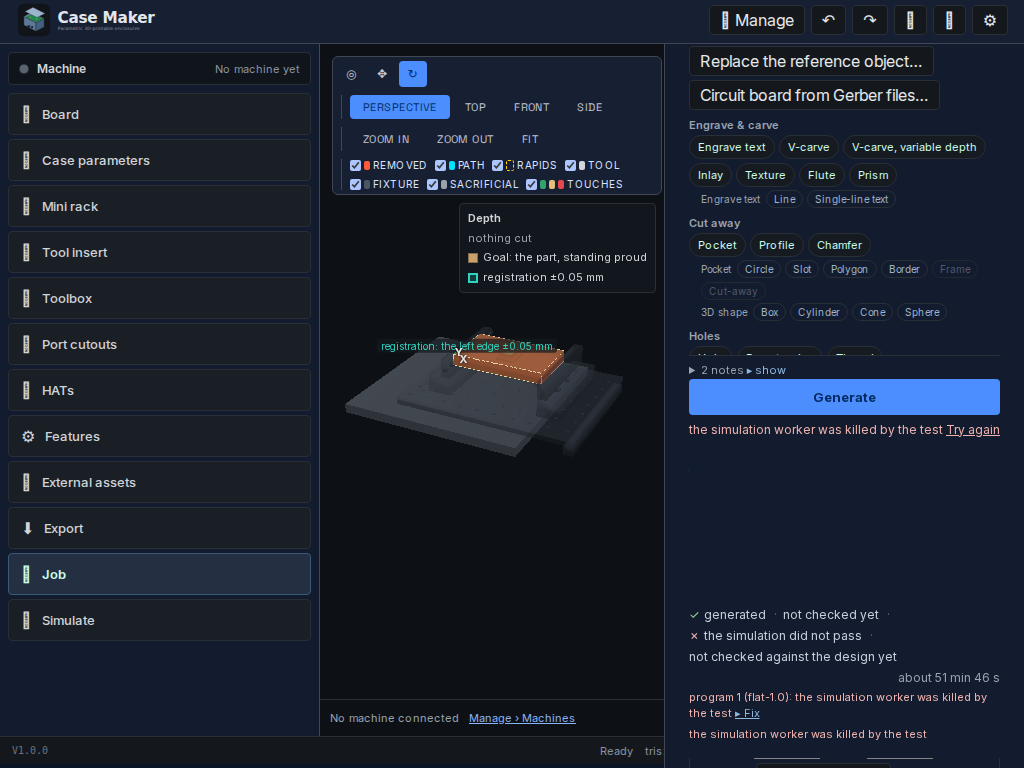
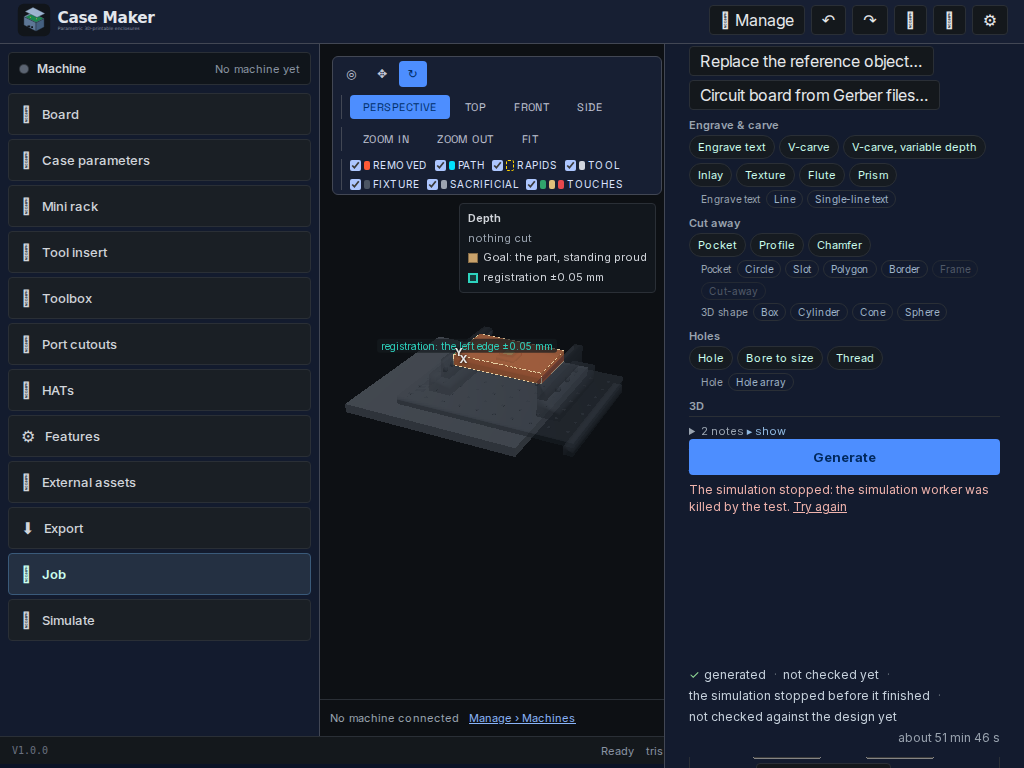
fix(run): a stopped simulation is a stop, said once beside Generate (#830 review)
Three fixes on the stopped-worker showing the manager reviewed:

1. THE SWEEP STOPPING IS NOT A FAILED CHECK. A worker that died mid-sweep was turned into a
   `sim-error` diagnostic against the program that happened to be loading, so the checklist read
   "the simulation did not pass" for a program that was never judged. The sweep adapter now
   raises `SimulationStopped` instead: no diagnostic, no error count, no Fix. The run records
   `simStopped`, and the checklist's simulation row reads "the simulation stopped before it
   finished" with no cross.

2. THE SENTENCE IS SAID ONCE. It appeared under Generate, again as the program 1 finding, and a
   third time at the foot. The run's own `error` now has exactly one home, beside Generate with
   Try again, and the foot's duplicate (`engrave-run-error`) is gone. A stopped simulation's
   words are framed as the stop they are: "The simulation stopped: <the worker's sentence>."
   A generator failure keeps its own sentence without that frame, and the stall watchdog says
   which of the two went quiet.

3. NO "▸ FIX" PRESS ON A STOP (#832 is removing bare Fix presses). The press is Try again; the
   program finding that carried the Fix no longer exists.

Tests: the store's stop leaves `simStopped` set, no diagnostics, no verdict; the panel shows the
framed sentence once with the neutral checklist row and neither the finding row nor a Fix; the
[…]

Changed region(s): [[0.6562, 0.4375, 1.0, 0.6875], [0.6562, 0.7812, 0.9688, 0.9688], [0.5938, 0.9688, 0.6562, 1.0]]

diff --git a/casemaker-app/src/store/engraveRunStore.ts b/casemaker-app/src/store/engraveRunStore.ts
@@ -286,6 +286,14 @@ export interface EngraveRunState {
    * own stage, so the panel never shows a bare "Working…" through a multi-program sweep.
    */
   simProgram: { index: number; count: number } | null;
+  /**
+   * #830 review — the run stopped because the SIMULATION PROCESS itself ended (its worker died or
+   * went silent), so no program was ever judged. This is a STOP, not a failed simulation: the
+   * panel states it once beside Generate, and the checklist's simulation row reads "stopped before
+   * it finished" rather than a cross. False for a sweep that ran and found errors, and for every
+   * failure of the other stages.
+   */
+  simStopped: boolean;
   /** Run the whole pipeline for the job as it is NOW. `surface` (#608) re-posts against a tilt. */
   generate: (surface?: SurfacePostFit | null) => Promise<void>;
   /**
@@ -306,6 +314,15 @@ export interface EngraveRunState {
   /** Forget the run (and the staleness). Does not touch the job. */
   reset: () => void;
 }
+
+/**
+ * #830 review — THE SWEEP STOPPED WITHOUT A VERDICT. Raised by the sweep adapter when the
+ * simulation could not finish (the worker stopped, or a call was cut off): there is no result to
+ * attribute to the program that happened to be loaded, so the failure leaves the sweep as a STOP.
+ * The run blocks with the worker's own words, and no error finding is invented for a program that
+ * was never judged — so the run's error count carries no sentence about work that never happened.
+ */
+class SimulationStopped extends Error {}
 
 let seq = 0;
 /** #785 — the loaded client (so Cancel can terminate the worker without a second import). */
@@ -334,6 +351,7 @@ export const useEngraveRunStore = create<EngraveRunState>()((set, get) => {
     error: null as string | null,
     progress: null as EngraveProgress | null,
     simProgram: null as { index: number; count: number } | null,
+    simStopped: false,
   };
 
   async function run(surface: SurfacePostFit | null = null): Promise<void> {
@@ -506,6 +524,11 @@ export const useEngraveRunStore = create<EngraveRunState>()((set, get) => {
       stallTimer = setTimeout(() => {
         if (mine !== seq) return;
         const seconds = Math.round(stallMs / 1000);
+        // #830 review — WHAT went quiet decides what the panel says. A silence while the SWEEP
+        // runs is a stopped simulation (no verdict for any program); a silence while the CAM
+        // generates is the generator stopping, and is said without that frame.
+        const during = get().phase;
+        const inSimulation = during === 'simulating' || during === 'checking';
         recordCrumb({
           kind: 'error',
           data: { source: 'generate-stall', message: `no stage for ${seconds} s (last: ${lastStage ?? 'the press'})` },
@@ -517,7 +540,10 @@ export const useEngraveRunStore = create<EngraveRunState>()((set, get) => {
           ...empty,
           generated: get().generated,
           phase: 'blocked',
-          error: `The generator stopped reporting for ${seconds} s. Its worker may have stopped; try again.`,
+          simStopped: inSimulation,
+          error: inSimulation
+            ? `its worker stopped answering after ${seconds} s`
+            : `The generator stopped reporting for ${seconds} s. Its worker may have stopped.`,
         });
       }, stallMs);
     };
@@ -742,34 +768,17 @@ export const useEngraveRunStore = create<EngraveRunState>()((set, get) => {
               return result;
             }
             const sim = useSimStore.getState();
-            // null means this load no longer owns the session: a newer run/panel load stopped it
-            // (the walk stops quietly), or the worker failed (block, naming this program).
+            // null means this load no longer owns the session (a newer run/panel load stopped it),
+            // and the walk stops quietly. A WORKER that failed is different: the sweep cannot go
+            // on, and nothing about this program was judged — so it leaves as a STOP carrying the
+            // worker's own words, never as a finding against the program that happened to be
+            // loading. #830 review: a stopped simulation is not a failed one.
             if (sim.status !== 'error') return null;
-            return {
-              ok: false as const,
-              pathOnly: false,
-              diagnostics: [
-                {
-                  source: 'sweep' as const,
-                  severity: 'error' as const,
-                  code: 'sim-error',
-                  message: `${programLabel(generated.programs, index)}: ${sim.error ?? 'the simulation failed'}`,
-                },
-              ],
-            };
+            throw new SimulationStopped(sim.error ?? 'the simulation worker stopped');
           } catch (e) {
-            return {
-              ok: false as const,
-              pathOnly: false,
-              diagnostics: [
-                {
-                  source: 'sweep' as const,
-                  severity: 'error' as const,
-                  code: 'sim-error',
-                  message: `${programLabel(generated.programs, index)}: ${e instanceof Error ? e.message : String(e)}`,
-                },
-              ],
-            };
+            // Every other throw from a load is the same kind of fact — no verdict was reached
+            // (a cut-off call, the time budget) — so it is a stop too, in the worker's words.
+            throw e instanceof SimulationStopped ? e : new SimulationStopped(e instanceof Error ? e.message : String(e));
           }
         },
         afterLoad: async ({ index }) => {
@@ -792,7 +801,17 @@ export const useEngraveRunStore = create<EngraveRunState>()((set, get) => {
         aborted: () => mine !== seq,
       });
     } catch (e) {
-      if (mine === seq) set({ phase: 'blocked', error: e instanceof Error ? e.message : String(e) });
+      // #830 review — a sweep that threw reached NO verdict: the worker stopped, or a call was cut
+      // off. The run blocks with the worker's own words (the panel frames them as the simulation
+      // stopping) and the checklist reads "stopped before it finished", never a failed check. A
+      // throw from anywhere else in the walk is a generation failure and keeps its own sentence.
+      if (mine === seq) {
+        set({
+          phase: 'blocked',
+          error: e instanceof Error ? e.message : String(e),
+          ...(e instanceof SimulationStopped ? { simStopped: true } : {}),
+        });
+      }
       noteWorkEnd('generate', 'failed');
       activeClient = null;
       return;
@@ -825,20 +844,20 @@ export const useEngraveRunStore = create<EngraveRunState>()((set, get) => {
     // count is the RUN's files, not the results: a walk stopped at its first program still names it.
     const simDiagnostics = attributedDiagnostics(summaries, generated.programs.length > 1);
     const firstSwept = summaries.find((s) => s.index === firstEngravingIndex) ?? summaries[0] ?? null;
-    const sim = useSimStore.getState();
 
     if (!outcome.ok) {
       set({
         phase: 'blocked',
         simPrograms: summaries,
         simDiagnostics,
-        // A sweep that RAN with errors is 'ready' — the gate reads the errors. Only a refusal (or a
-        // worker failure) is anything else, exactly as the single-program run has always read it.
-        simStatus: outcome.failed?.kind === 'diagnostics' ? 'ready' : sim.status === 'error' ? 'error' : 'refused',
+        // A sweep that RAN with errors is 'ready' — the gate reads the errors; anything else here
+        // is the simulator's own refusal of a program it was given. A dead worker never reaches
+        // this branch: it stops the walk with `SimulationStopped`, so there is no verdict to
+        // record and the panel states the stop once, beside Generate.
+        simStatus: outcome.failed?.kind === 'diagnostics' ? 'ready' : 'refused',
         pathOnly: outcome.failed?.pathOnly ?? false,
         simEngine: firstSwept?.engine ?? null,
         simGridPitchMm: firstSwept?.gridPitchMm ?? null,
-        error: sim.status === 'error' ? sim.error : null,
       });
       noteWorkEnd('generate', 'refused');
       activeClient = null;
@@ -903,6 +922,7 @@ export const useEngraveRunStore = create<EngraveRunState>()((set, get) => {
     error: null,
     progress: null,
     simProgram: null,
+    simStopped: false,
     generate: run,
     cancelGenerate: () => {
       const phase = get().phase;

diff --git a/casemaker-app/src/components/panels/EngravePanel.tsx b/casemaker-app/src/components/panels/EngravePanel.tsx
@@ -745,6 +745,15 @@ function runProgressWords(
   return run.progress === null ? 'Working…' : `${run.progress.label}…`;
 }
 
+/**
+ * #830 review — the ONE sentence a stopped simulation gets, with the worker's own words inside it
+ * ("The simulation stopped: the simulation worker was killed by the test."). Said once, beside
+ * Generate with Try again; the run's other surfaces stay quiet or say "not simulated".
+ */
+function simulationStoppedWords(error: string): string {
+  return `The simulation stopped: ${error.replace(/\.+$/, '')}.`;
+}
+
 export function EngravePanel(): JSX.Element {
   const job = useEngraveJobStore((s) => s.job);
   const setJobMargins = useEngraveJobStore((s) => s.setJobMargins);
@@ -2154,8 +2163,19 @@ export function EngravePanel(): JSX.Element {
             ? 'not checked yet'
             : 'not checked yet';
 
-  const rowSimulated: RowState =
-    run.simStatus === 'ready' ? (simErrors > 0 ? 'cross' : 'tick') : run.phase === 'simulating' ? 'pending' : run.simStatus ? 'cross' : 'idle';
+  // #830 review — a simulation that STOPPED (its worker died or went silent) judged no program:
+  // it is not a failed check, so the row is neither a cross nor a pass. It says so in words.
+  const rowSimulated: RowState = run.simStopped
+    ? 'idle'
+    : run.simStatus === 'ready'
+      ? simErrors > 0
+        ? 'cross'
+        : 'tick'
+      : run.phase === 'simulating'
+        ? 'pending'
+        : run.simStatus
+          ? 'cross'
+          : 'idle';
   const rowSimulatedText =
     rowSimulated === 'tick'
       ? 'simulated'
@@ -2163,7 +2183,9 @@ export function EngravePanel(): JSX.Element {
         ? 'the simulation did not pass'
         : rowSimulated === 'pending'
           ? 'simulating…'
-          : 'not simulated yet';
+          : run.simStopped
+            ? 'the simulation stopped before it finished'
+            : 'not simulated yet';
 
   const rowOracle: RowState = run.oracle ? (run.oracle.ok ? 'tick' : 'cross') : run.phase === 'checking' ? 'pending' : 'idle';
   const rowOracleText =
@@ -2186,7 +2208,8 @@ export function EngravePanel(): JSX.Element {
   // #793 — the idle state says nothing. The four ticks are drawn only while a run works or after
   // one it produced: a fresh job showed four "not … yet" rows under a button that had not been
   // pressed, which reads as work the job has lost. A refusal with no result speaks its own
-  // sentence (`engrave-run-errors` / `engrave-run-error`); it is not four failed rows.
+  // sentence (`engrave-run-errors`); it is not four failed rows. #830 review — the run's OWN
+  // `error` is stated once beside Generate (`engrave-generate-error`), not printed here too.
   const runSaysSomething = running || run.generated !== null || run.error !== null;
   // …and a run that PASSED and still matches the job collapses to ONE line, with the ticks behind
   // its `›`. #794 — that line is the Ready card, and the footer's primary becomes the next step.
@@ -4369,12 +4392,16 @@ export function EngravePanel(): JSX.Element {
           )}
           {run.phase === 'blocked' && run.error !== null && (
             // #830 — the run stopped with a reason that is not a finding: the worker died, or it
-            // went quiet past the stall limit. Say it, and offer the one action that helps.
+            // went quiet past the stall limit. Say it HERE, once, and offer the one action that
+            // helps. #830 review — a stopped simulation is framed as a stop with the worker's own
+            // words inside; the run rows and the gate say "not simulated", never the same
+            // sentence again, and there is no Fix press (#832 is removing bare press-to-Fix
+            // everywhere; the press for a stop is Try again).
             <span
               data-testid="engrave-generate-error"
               style={{ flex: '1 1 180px', fontSize: 12, lineHeight: 1.45, color: SEVERITY_COLOR.error }}
             >
-              {run.error}{' '}
+              {run.simStopped ? simulationStoppedWords(run.error) : run.error}{' '}
               <button
                 type="button"
                 data-testid="engrave-generate-retry"
@@ -4529,12 +4556,6 @@ export function EngravePanel(): JSX.Element {
                 )}
               </p>
             )}
-            {run.error && (
-              <p style={{ ...MUTED, color: SEVERITY_COLOR.error }} data-testid="engrave-run-error">
-                {run.error}
-              </p>
-            )}
-
             {/* #803 (as the manager asked at the #792 hand-in) — SAVE SAYS NOTHING HERE. Save is
                 not on this screen any more: it is the File ▾ menu's item, and the reason it is
                 closed is that item's disabled state and its hover. A sentence under the primary

diff --git a/casemaker-app/tests/unit/engravePanel.spec.tsx b/casemaker-app/tests/unit/engravePanel.spec.tsx
@@ -4823,15 +4823,44 @@ describe('#805 — the rotary oversize warning’s two answers', () => {
     expect(screen.getByTestId('engrave-generate-progress').textContent).toContain('simulating program 1 of 2 · swept 5 of 10');
   });
 
-  it('a stopped run shows its reason and offers Try again', () => {
+  // #830 review — a stopped SIMULATION judged no program. It is said ONCE, in the worker's words,
+  // beside Generate with the Try again press; the checklist says it stopped before it finished
+  // (not a cross), and nothing else repeats the sentence — no finding row, no Fix press.
+  it('a stopped simulation is said once, in the worker’s words, with Try again', () => {
     render(<EngravePanel />);
     act(() => {
       useEngraveRunStore.setState({
         phase: 'blocked',
-        error: 'The generator stopped reporting for 180 s. Its worker may have stopped; try again.',
+        simStopped: true,
+        error: 'the simulation worker was killed by the test.',
       } as never);
     });
-    expect(screen.getByTestId('engrave-generate-error').textContent).toContain('The generator stopped reporting for 180 s.');
+    const error = screen.getByTestId('engrave-generate-error');
+    expect(error.textContent).toContain('The simulation stopped: the simulation worker was killed by the test.');
+    expect(screen.getByTestId('engrave-generate-retry')).toBeTruthy();
+
+    // The checklist says it STOPPED — neither a pass nor a failure.
+    const row = screen.getByTestId('engrave-run-simulated');
+    expect(row.getAttribute('data-state')).toBe('idle');
+    expect(row.textContent).toContain('the simulation stopped before it finished');
+    expect(row.textContent).not.toContain('did not pass');
+
+    // Once. Not again as a program finding, not at the foot, and no Fix press for a stop.
+    expect(screen.queryByTestId('engrave-run-errors')).toBeNull();
+    expect(screen.queryByTestId('engrave-run-error')).toBeNull();
+    expect(screen.queryByTestId('engrave-run-blocker-fix')).toBeNull();
+    const panelText = screen.getByTestId('engrave-panel').textContent ?? '';
+    expect(panelText.split('The simulation stopped:').length - 1).toBe(1);
+  });
+
+  it('a generator failure keeps its own sentence, without the simulation frame', () => {
+    render(<EngravePanel />);
+    act(() => {
+      useEngraveRunStore.setState({ phase: 'blocked', error: 'the job has no usable cutter' } as never);
+    });
+    const error = screen.getByTestId('engrave-generate-error');
+    expect(error.textContent).toContain('the job has no usable cutter');
+    expect(error.textContent).not.toContain('The simulation stopped');
     expect(screen.getByTestId('engrave-generate-retry')).toBeTruthy();
   });
 });

diff --git a/casemaker-app/tests/unit/engraveRunStore.spec.ts b/casemaker-app/tests/unit/engraveRunStore.spec.ts
@@ -1313,7 +1313,10 @@ describe('#785 progress and Cancel', () => {
       const s = useEngraveRunStore.getState();
       expect(s.phase).toBe('blocked');
       expect(s.error).toContain('The generator stopped reporting for');
-      expect(s.error).toContain('try again');
+      // #830 review — a silence while GENERATING is the generator's stop, not the simulation's,
+      // and the sentence no longer carries its own "try again" (the press says it).
+      expect(s.simStopped).toBe(false);
+      expect(s.error).not.toContain('try again');
       expect(cancelled, 'the stuck worker is killed, not left running').toBe(1);
       void done;
     } finally {
@@ -1332,5 +1335,35 @@ describe('#785 progress and Cancel', () => {
     const s = useEngraveRunStore.getState();
     expect(s.phase).toBe('blocked');
     expect(s.error).toBe('the simulation worker stopped');
+    // The throw came from the CAM, not the sweep: this is not a stopped simulation.
+    expect(s.simStopped).toBe(false);
+  });
+
+  it('a worker that dies mid-sweep is a STOP, not an error finding against the program', async () => {
+    // #830 review — the sweep's load comes back null with the sim store in 'error': the worker
+    // died. Nothing about the program was judged, so the run carries the worker's own sentence as
+    // its stop; no `program 1 (…)` finding is invented, and the gate reads "not finished".
+    const realLoad = useSimStore.getState().loadProgram;
+    useSimStore.setState({
+      loadProgram: async () => {
+        useSimStore.setState({ status: 'error', error: 'the simulation worker was killed', progress: null, phase: null });
+        return null;
+      },
+    });
+    setEngraveRunClientLoader(async () => ({
+      engraveGenerate: async () => clean(),
+      simOracle: async () => ({ ok: true, band: 0.016, levels: [], worst: { underCut: 0, overCut: 0 } }),
+    }));
+    try {
+      await useEngraveRunStore.getState().generate();
+    } finally {
+      useSimStore.setState({ loadProgram: realLoad });
+    }
+    const s = useEngraveRunStore.getState();
+    expect(s.phase).toBe('blocked');
+    expect(s.simStopped, 'a worker that stopped judged no program').toBe(true);
+    expect(s.error).toBe('the simulation worker was killed');
+    expect(s.simDiagnostics, 'no finding is manufactured for a program that was never swept').toEqual([]);
+    expect(s.simStatus, 'no simulation verdict was reached').toBeNull();
   });
 });

diff --git a/casemaker-app/tests/e2e/generateProgress830.spec.ts b/casemaker-app/tests/e2e/generateProgress830.spec.ts
@@ -57,9 +57,22 @@ test('#830 — the sweep names its stage, and a worker killed mid-sweep is repor
   });
 
   const error = page.getByTestId('engrave-generate-error');
-  await expect(error).toContainText('the simulation worker was killed by the test', { timeout: 30_000 });
+  // #830 review — the worker's words sit inside the STOP frame, once, beside Generate.
+  await expect(error).toContainText('The simulation stopped: the simulation worker was killed by the test', {
+    timeout: 30_000,
+  });
   await expect(page.getByTestId('engrave-generate-retry')).toBeVisible();
   // The run is blocked with a reason, not still "Working".
   await expect(progress).toHaveCount(0);
+  // A stop is not a failed check: the simulation row says it stopped before it finished, without
+  // a cross. And the sentence is not repeated as a program finding or at the foot, nor given a Fix.
+  const simulatedRow = page.getByTestId('engrave-run-simulated');
+  await expect(simulatedRow).toContainText('the simulation stopped before it finished');
+  await expect(simulatedRow).toHaveAttribute('data-state', 'idle');
+  await expect(page.getByTestId('engrave-run-errors')).toHaveCount(0);
+  await expect(page.getByTestId('engrave-run-error')).toHaveCount(0);
+  await expect(page.getByTestId('engrave-run-blocker-fix')).toHaveCount(0);
+  // …and the STOP sentence itself is on screen once, not mirrored anywhere else.
+  await expect(page.getByText('The simulation stopped: the simulation worker was killed by the test.')).toHaveCount(1);
   await page.screenshot({ path: path.join(OUT, 'worker-stopped.png') });
 });
